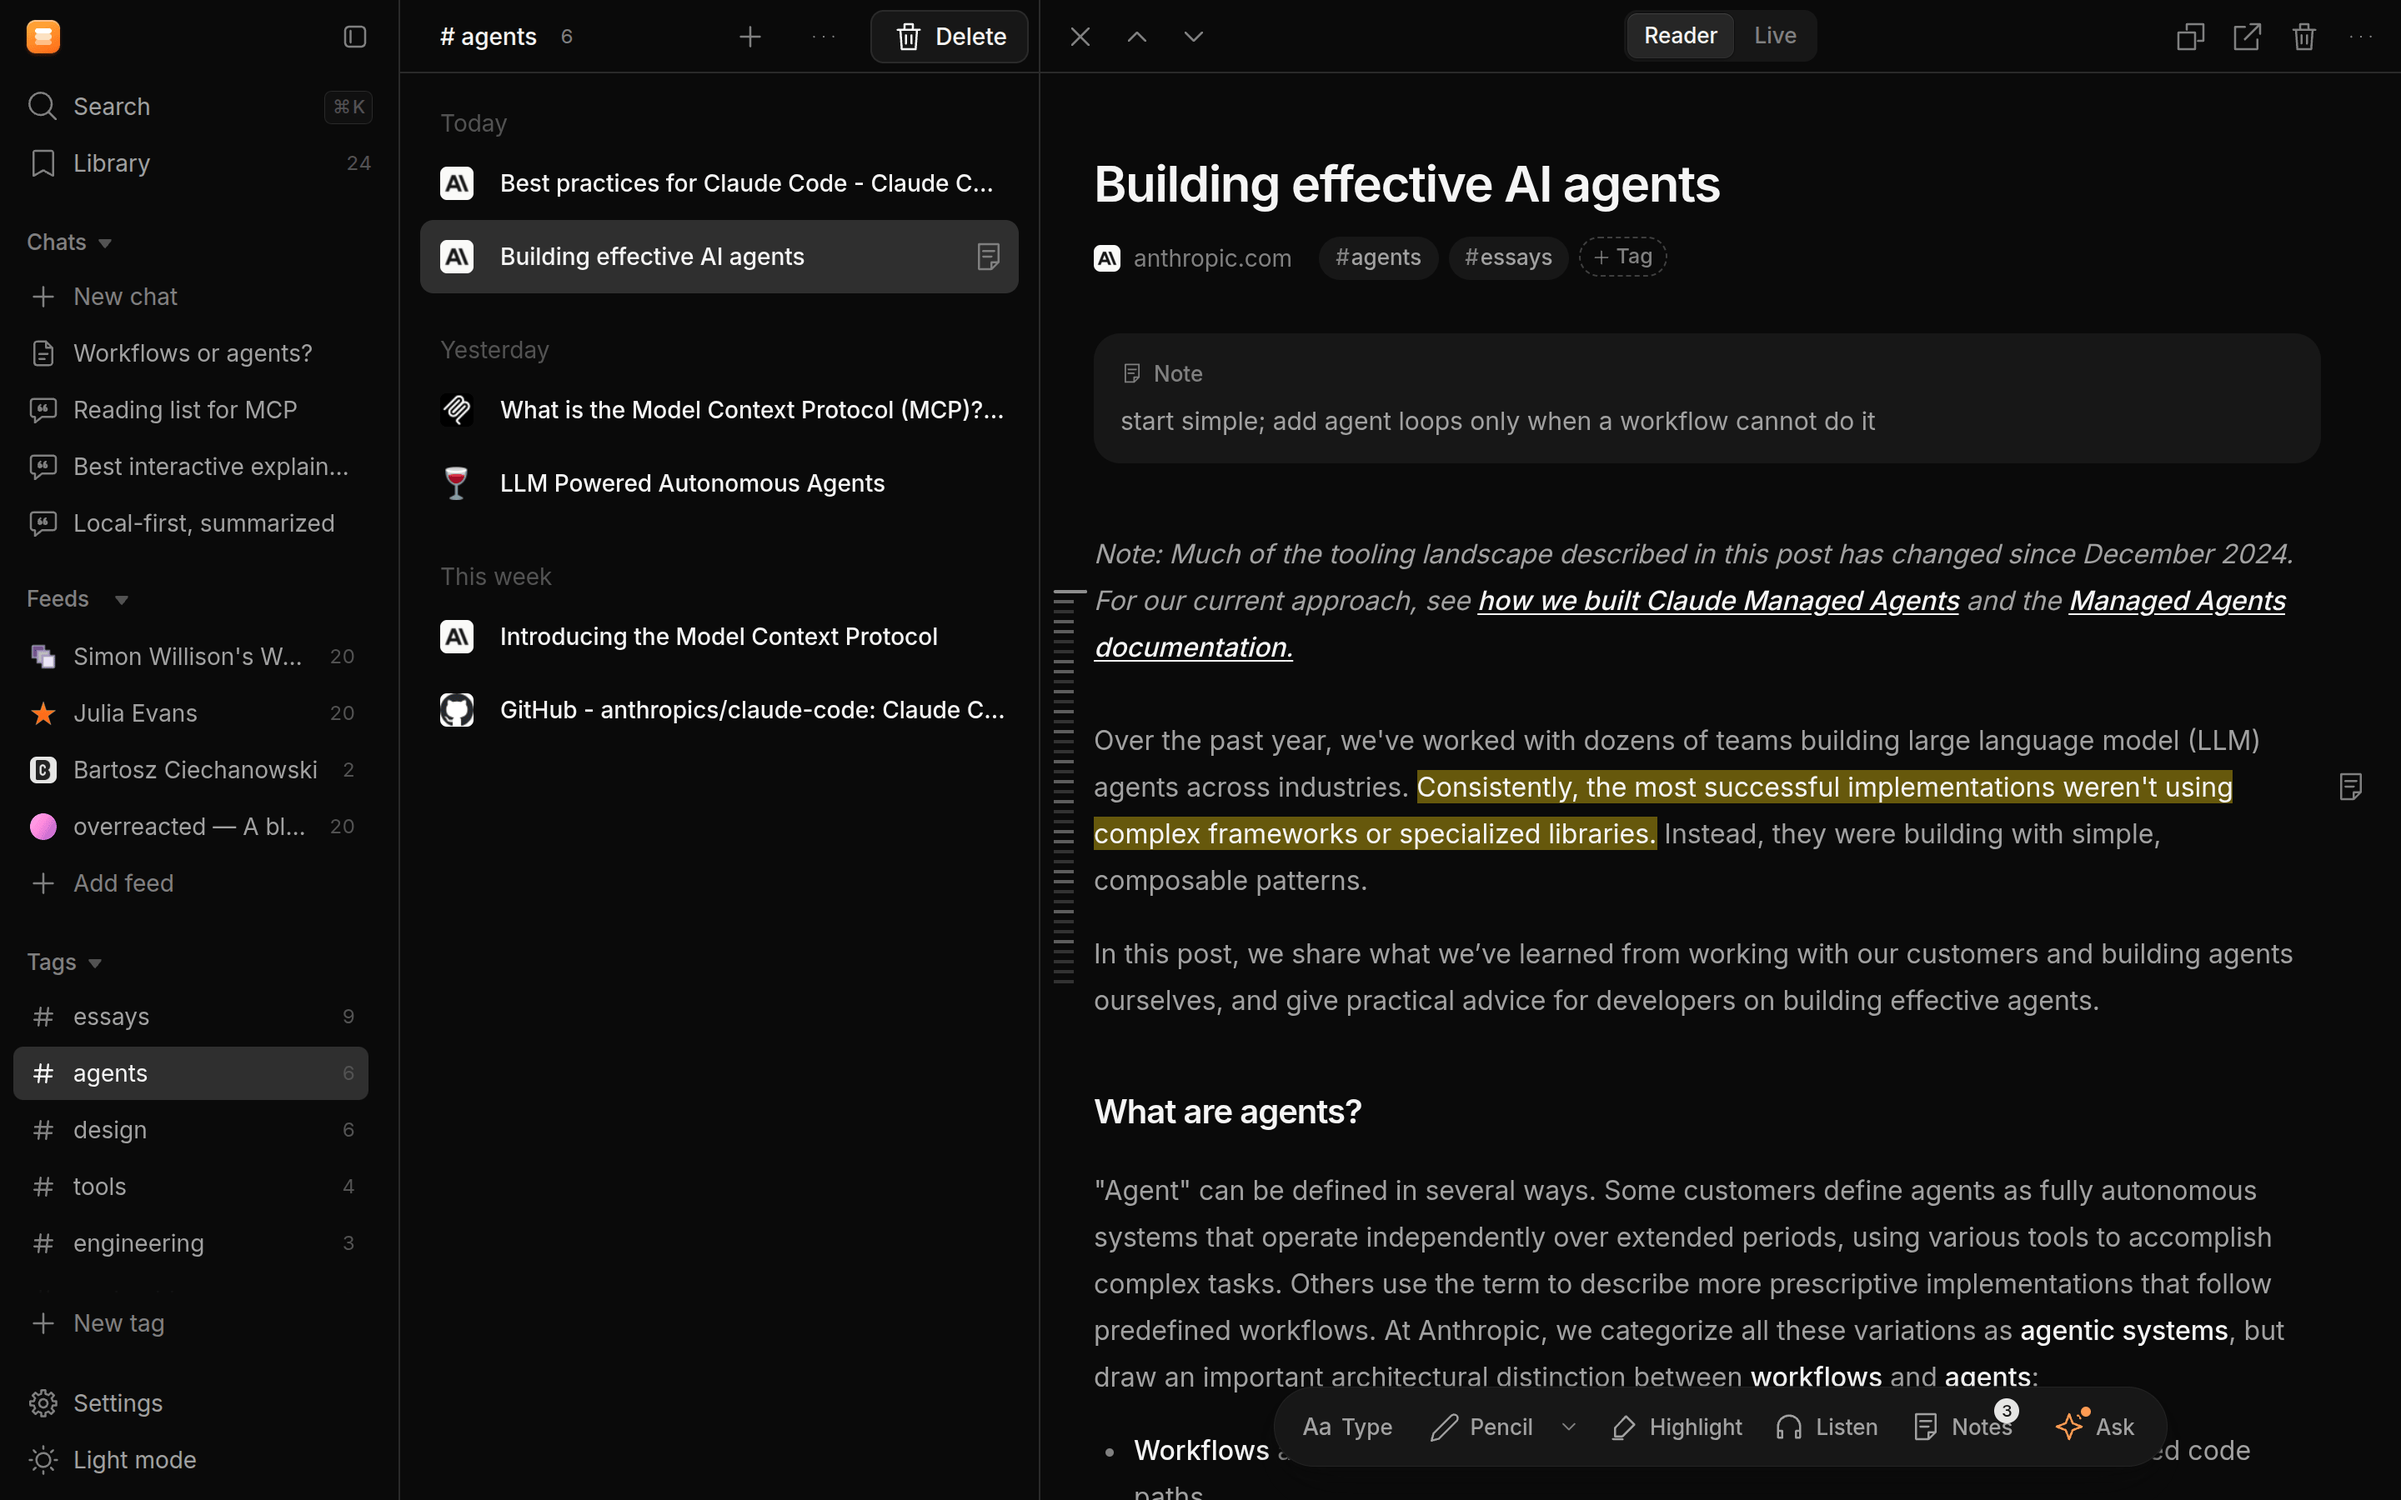
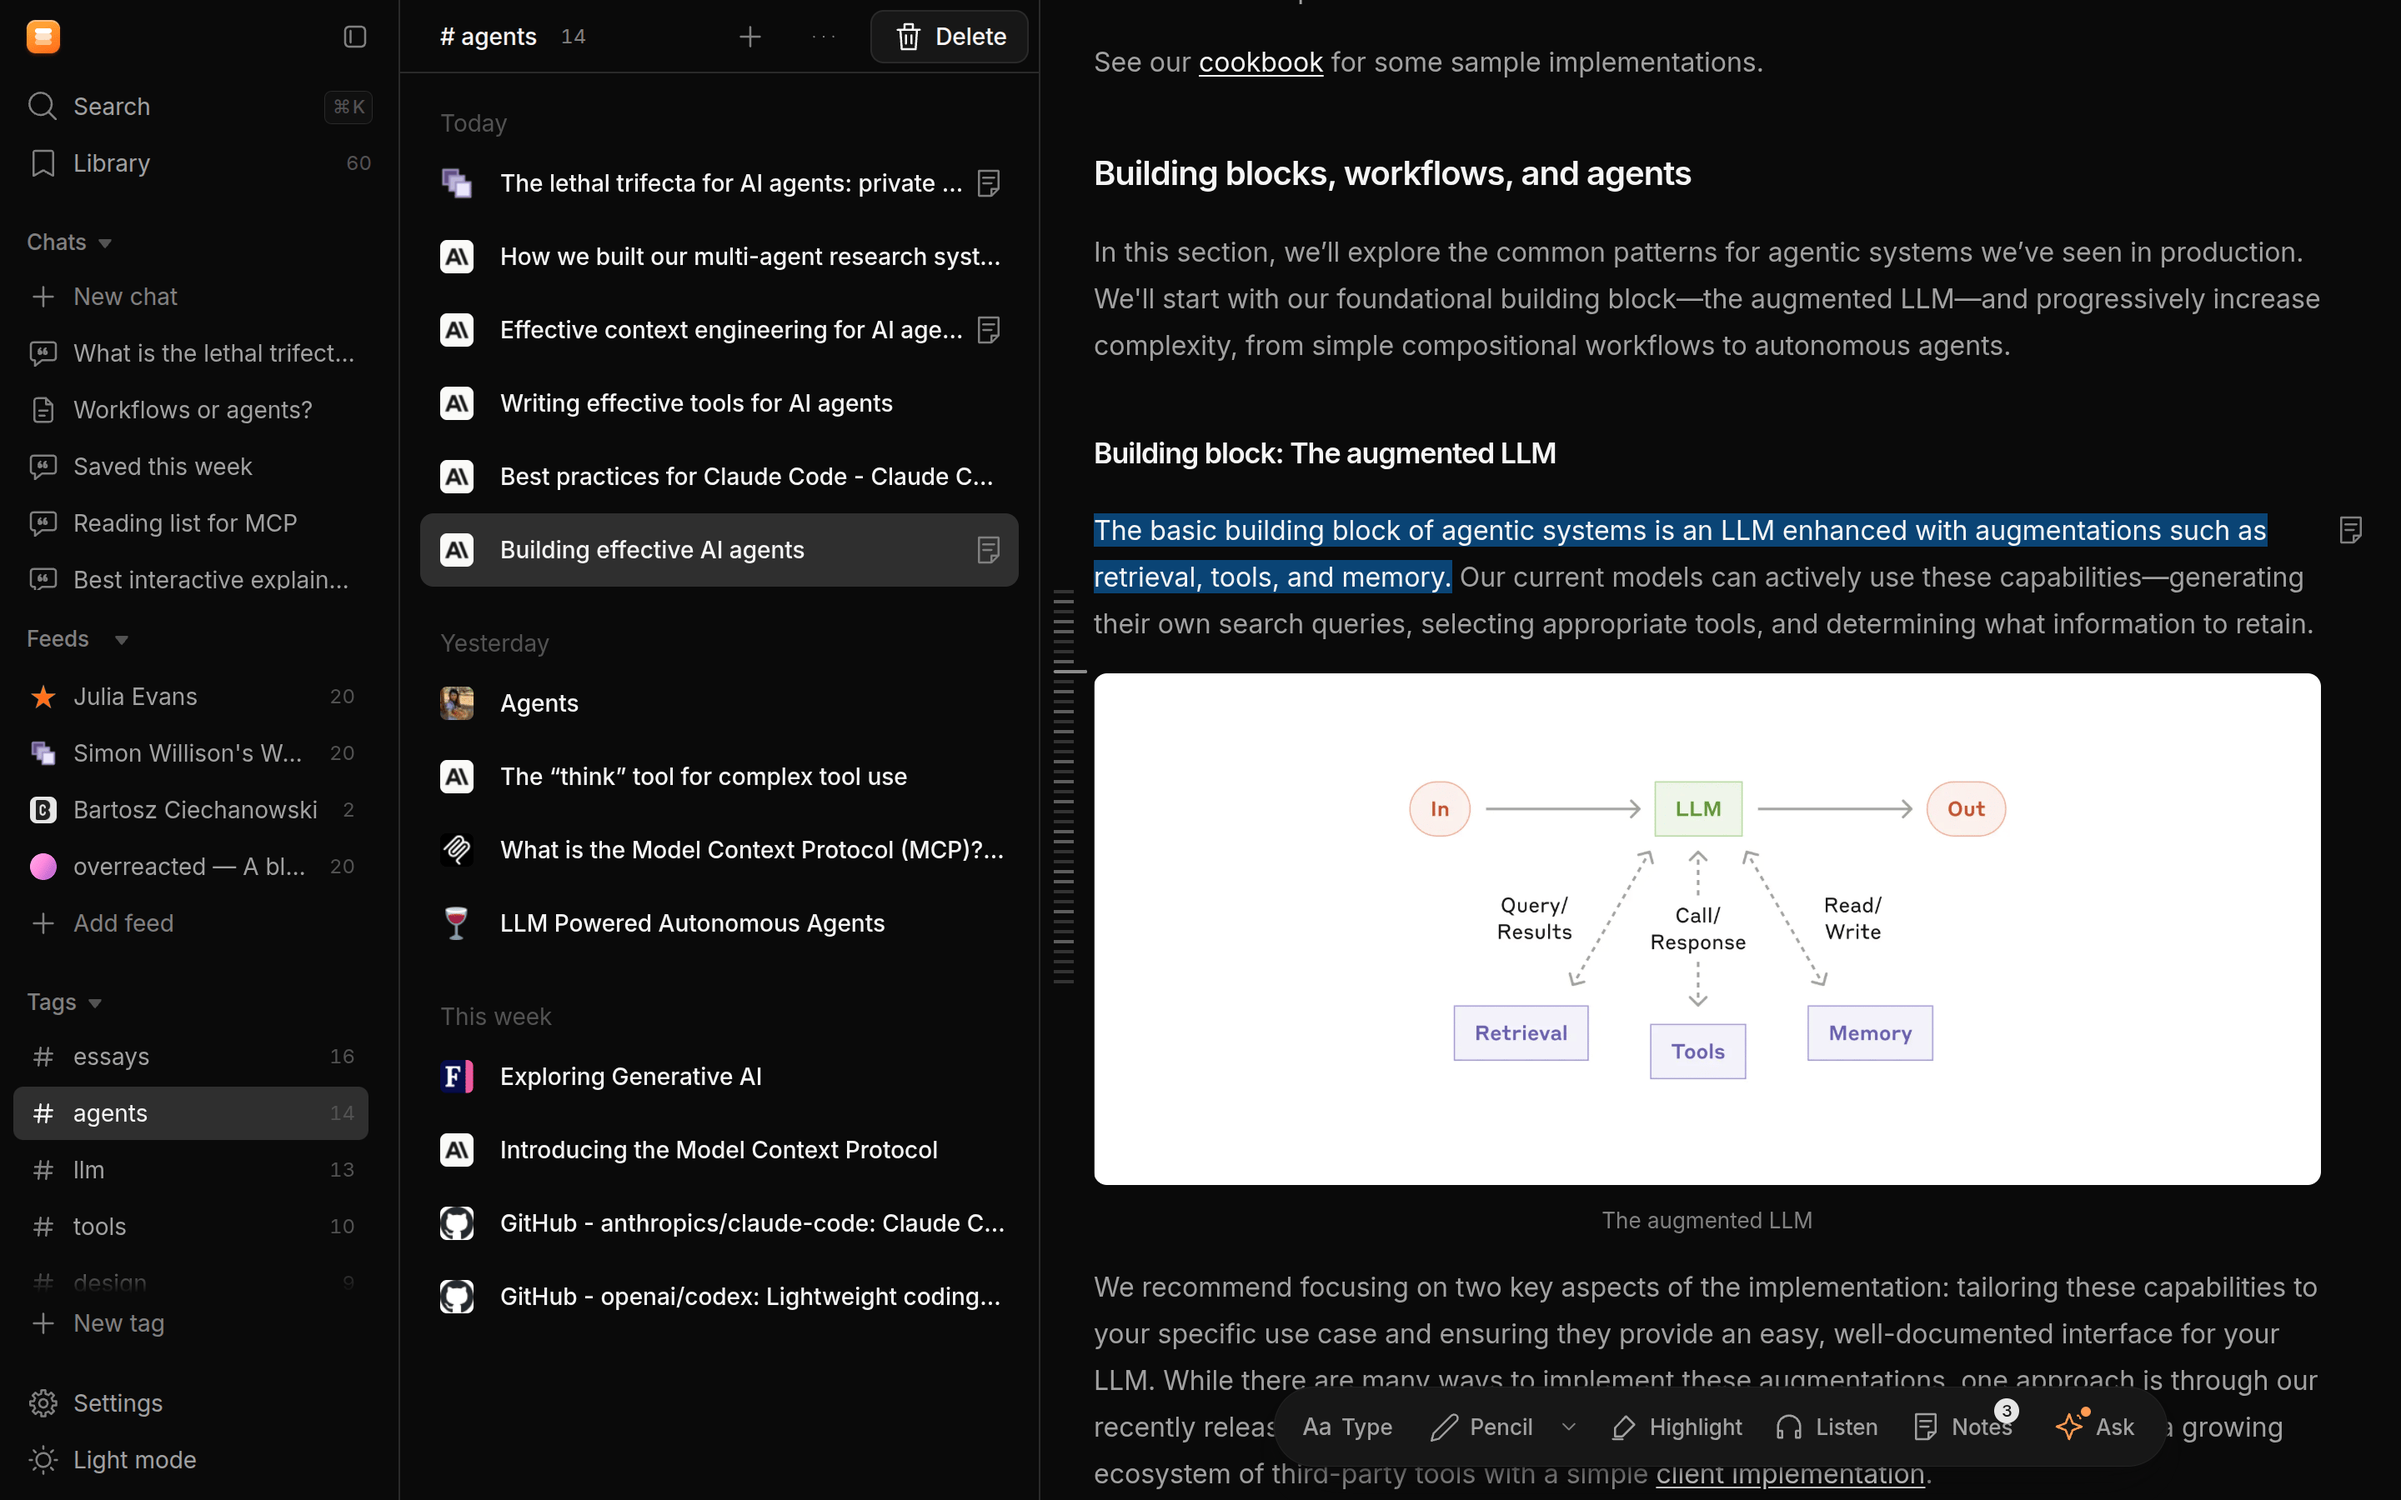
docs: fuller seeded library and richer README shots
Seed 60 live articles across 14 tags and six Librarian chats, so the
list, tags, and chats fill the screen. The shots now show a diagram in
the reader, the Ask chat open over an article, an image-heavy essay,
and an open feed post.

Capture waits for load instead of network idle, because YouTube embeds
never go idle.

diff --git a/scripts/screenshots/seed-data.ts b/scripts/screenshots/seed-data.ts
@@ -28,8 +28,11 @@ export interface SeedLink {
 /** The article the reader screenshots open. It also carries the highlights and a chat. */
 export const HERO_URL = 'https://www.anthropic.com/engineering/building-effective-agents';
 
-/** A second article the library screenshot opens in the reader. */
-export const SECOND_URL = 'https://www.inkandswitch.com/essay/local-first/';
+/** Articles the library screenshots open in the reader, keyed by manifest name. */
+export const SHOT_URLS = {
+  localFirst: 'https://www.inkandswitch.com/essay/local-first/',
+  transformer: 'https://jalammar.github.io/illustrated-transformer/',
+} as const;
 
 export const SEED_LINKS: SeedLink[] = [
   // ── Today ──────────────────────────────────────────────────────────────
@@ -74,7 +77,7 @@ export const SEED_LINKS: SeedLink[] = [
     bucket: 'yesterday',
   },
   {
-    url: SECOND_URL,
+    url: SHOT_URLS.localFirst,
     tags: ['local-first', 'essays'],
     note: 'the seven ideals; silo lives in #4 and #7',
     bucket: 'yesterday',
@@ -160,9 +163,195 @@ export const SEED_LINKS: SeedLink[] = [
     tags: ['essays'],
     bucket: 'earlier',
   },
+  // ── More reading, so every list and tag fills the screen ───────────────
   {
-    url: 'https://news.ycombinator.com/item?id=42575537',
+    url: 'https://www.anthropic.com/engineering/writing-tools-for-agents',
+    tags: ['agents', 'mcp'],
+    bucket: 'today',
+  },
+  {
+    url: 'https://www.anthropic.com/engineering/effective-context-engineering-for-ai-agents',
+    tags: ['agents', 'llm'],
+    note: 'context is a budget; spend it on what the next step needs',
+    bucket: 'today',
+  },
+  {
+    url: 'https://www.anthropic.com/engineering/multi-agent-research-system',
+    tags: ['agents', 'research'],
+    addedByClaude: true,
+    bucket: 'today',
+  },
+  {
+    url: SHOT_URLS.transformer,
+    tags: ['llm', 'explorables'],
+    bucket: 'today',
+  },
+  {
+    url: 'https://simonwillison.net/2025/Jun/16/the-lethal-trifecta/',
+    tags: ['agents', 'security'],
+    note: 'private data + untrusted content + a way out = exfiltration',
+    bucket: 'today',
+  },
+  {
+    url: 'https://www.anthropic.com/engineering/claude-think-tool',
+    tags: ['agents', 'llm'],
+    bucket: 'yesterday',
+  },
+  {
+    url: 'https://huyenchip.com/2025/01/07/agents.html',
+    tags: ['agents', 'essays'],
+    bucket: 'yesterday',
+  },
+  {
+    url: 'https://hamel.dev/blog/posts/evals/',
+    tags: ['evals', 'llm'],
+    bucket: 'yesterday',
+  },
+  {
+    url: 'https://github.com/microsoft/playwright-mcp',
+    tags: ['mcp', 'open-source', 'tools'],
+    addedByClaude: true,
+    bucket: 'yesterday',
+  },
+  {
+    url: 'https://www.anthropic.com/research/tracing-thoughts-language-model',
+    tags: ['llm', 'research'],
+    bucket: 'yesterday',
+  },
+  {
+    url: 'https://ciechanow.ski/bicycle/',
+    tags: ['explorables', 'design'],
+    bucket: 'yesterday',
+  },
+  {
+    url: 'https://eugeneyan.com/writing/llm-patterns/',
+    tags: ['llm', 'evals'],
+    bucket: 'this_week',
+  },
+  {
+    url: 'https://github.com/openai/codex',
+    tags: ['agents', 'open-source', 'tools'],
+    bucket: 'this_week',
+  },
+  {
+    url: 'https://lilianweng.github.io/posts/2024-07-07-hallucination/',
+    tags: ['llm', 'research'],
+    bucket: 'this_week',
+  },
+  {
+    url: 'https://modelcontextprotocol.io/specification/2025-06-18',
+    tags: ['mcp'],
+    bucket: 'this_week',
+  },
+  {
+    url: 'https://www.figma.com/blog/introducing-figma-mcp-server/',
+    tags: ['mcp', 'design'],
+    bucket: 'this_week',
+  },
+  {
+    url: 'https://maggieappleton.com/ai-dark-forest',
+    tags: ['essays', 'llm'],
+    bucket: 'this_week',
+  },
+  {
+    url: 'https://www.joshwcomeau.com/react/server-components/',
+    tags: ['frontend', 'explorables'],
+    bucket: 'this_week',
+  },
+  {
+    url: 'https://ciechanow.ski/airfoil/',
+    tags: ['explorables'],
+    bucket: 'this_week',
+  },
+  {
+    url: 'https://martinfowler.com/articles/exploring-gen-ai.html',
+    tags: ['agents', 'engineering'],
+    bucket: 'this_week',
+  },
+  {
+    url: 'https://karpathy.github.io/2015/05/21/rnn-effectiveness/',
+    tags: ['llm', 'research'],
+    bucket: 'earlier',
+  },
+  {
+    url: 'https://paulgraham.com/ds.html',
+    tags: ['essays'],
+    bucket: 'earlier',
+  },
+  {
+    url: 'https://stripe.com/blog/canonical-log-lines',
     tags: ['engineering'],
+    bucket: 'earlier',
+  },
+  {
+    url: 'https://brandur.org/idempotency-keys',
+    tags: ['engineering'],
+    note: 'store the key and the response in one transaction',
+    bucket: 'earlier',
+  },
+  {
+    url: 'https://github.com/ollama/ollama',
+    tags: ['llm', 'open-source', 'tools'],
+    bucket: 'earlier',
+  },
+  {
+    url: 'https://github.com/tldraw/tldraw',
+    tags: ['open-source', 'design'],
+    bucket: 'earlier',
+  },
+  {
+    url: 'https://react.dev/blog/2024/12/05/react-19',
+    tags: ['frontend'],
+    bucket: 'earlier',
+  },
+  {
+    url: 'https://tailwindcss.com/blog/tailwindcss-v4',
+    tags: ['frontend', 'tools'],
+    bucket: 'earlier',
+  },
+  {
+    url: 'https://overreacted.io/a-complete-guide-to-useeffect/',
+    tags: ['frontend', 'essays'],
+    bucket: 'earlier',
+  },
+  {
+    url: 'https://web.dev/articles/vitals',
+    tags: ['frontend', 'engineering'],
+    bucket: 'earlier',
+  },
+  {
+    url: 'https://www.inkandswitch.com/upwelling/',
+    tags: ['local-first', 'research'],
+    bucket: 'earlier',
+  },
+  {
+    url: 'https://danluu.com/look-stupid/',
+    tags: ['essays'],
+    bucket: 'earlier',
+  },
+  {
+    url: 'https://bun.sh/blog/bun-v1.0',
+    tags: ['tools', 'open-source'],
+    bucket: 'earlier',
+  },
+  {
+    url: 'https://sre.google/sre-book/embracing-risk/',
+    tags: ['engineering'],
+    bucket: 'earlier',
+  },
+  {
+    url: 'https://astral.sh/blog/uv',
+    tags: ['tools', 'open-source'],
+    bucket: 'earlier',
+  },
+  {
+    url: 'https://antirez.com/news/145',
+    tags: ['essays', 'engineering'],
+    bucket: 'earlier',
+  },
+  {
+    url: 'https://lethain.com/staff-engineer/',
+    tags: ['engineering', 'essays'],
     bucket: 'earlier',
   },
 ];
@@ -198,8 +387,8 @@ export const HERO_HIGHLIGHTS: SeedHighlight[] = [
 
 /** RSS / Atom feeds, subscribed through the real `POST /api/feeds` endpoint. */
 export const SEED_FEEDS: string[] = [
-  'https://simonwillison.net/atom/everything/',
   'https://jvns.ca/atom.xml',
+  'https://simonwillison.net/atom/everything/',
   'https://ciechanow.ski/atom.xml',
   'https://overreacted.io/rss.xml',
 ];
@@ -218,6 +407,28 @@ export interface SeedChat {
 }
 
 export const SEED_CHATS: SeedChat[] = [
+  {
+    title: 'What is the lethal trifecta?',
+    ageHours: 0.5,
+    messages: [
+      { role: 'user', text: 'Explain the lethal trifecta from my saved Simon Willison post.' },
+      {
+        role: 'assistant',
+        text: 'An agent is at risk when it has all three: access to **private data**, exposure to **untrusted content**, and a way to **send data out**. A prompt injection in the untrusted content can then make the agent leak your data. Remove any one of the three and the attack fails.',
+      },
+    ],
+  },
+  {
+    title: 'Saved this week',
+    ageHours: 3,
+    messages: [
+      { role: 'user', text: 'What did I save this week?' },
+      {
+        role: 'assistant',
+        text: "Most of this week's saves are about **agents** and **LLM evals**: Hamel Husain on evals, Eugene Yan on LLM patterns, and the Codex repository. You also saved two explorables: Airfoil and the guide to React Server Components.",
+      },
+    ],
+  },
   {
     title: 'Workflows or agents?',
     hero: true,

diff --git a/scripts/screenshots/showcase.ts b/scripts/screenshots/showcase.ts
@@ -11,7 +11,7 @@
 import { randomUUID } from 'node:crypto';
 import { writeFileSync } from 'node:fs';
 import type { Pool } from 'pg';
-import { HERO_HIGHLIGHTS, HERO_URL, SECOND_URL, SEED_CHATS, SEED_FEEDS } from './seed-data.js';
+import { HERO_HIGHLIGHTS, HERO_URL, SEED_CHATS, SEED_FEEDS, SHOT_URLS } from './seed-data.js';
 
 export interface ShowcaseContext {
   pool: Pool;
@@ -21,7 +21,7 @@ export interface ShowcaseContext {
 
 export interface Manifest {
   heroLinkId: string | null;
-  secondLinkId: string | null;
+  shotLinkIds: Record<keyof typeof SHOT_URLS, string | null>;
   heroChatId: string | null;
   feedId: string | null;
 }
@@ -50,6 +50,13 @@ async function linkIdFor(pool: Pool, url: string): Promise<string | null> {
     [url],
   );
   return rows[0]?.id ?? null;
+}
+
+async function shotLinkIds(pool: Pool): Promise<Manifest['shotLinkIds']> {
+  const entries = await Promise.all(
+    Object.entries(SHOT_URLS).map(async ([name, url]) => [name, await linkIdFor(pool, url)]),
+  );
+  return Object.fromEntries(entries) as Manifest['shotLinkIds'];
 }
 
 async function seedHighlights(ctx: ShowcaseContext, linkId: string): Promise<void> {
@@ -132,7 +139,7 @@ export async function seedShowcase(ctx: ShowcaseContext, manifestPath: string): 
 
   const manifest: Manifest = {
     heroLinkId: linkId,
-    secondLinkId: await linkIdFor(ctx.pool, SECOND_URL),
+    shotLinkIds: await shotLinkIds(ctx.pool),
     heroChatId,
     feedId,
   };

diff --git a/README.md b/README.md
@@ -17,7 +17,7 @@ features, such as the Librarian chat or short titles for saved X posts, with you
 OpenAI, Fireworks, or Vercel AI Gateway key. They are off by default, and silo works fully without
 them.
 
-<img src="docs/design/app/shots/01-reader-dark.png" alt="silo's reader: an article with a note and a highlight, beside the agents tag list" width="880">
+<img src="docs/design/app/shots/01-reader-dark.png" alt="silo's reader: a highlighted passage above a diagram, beside the agents tag list" width="880">
 
 ```sh
 brew install amitray007/tap/silo
@@ -60,15 +60,15 @@ The web UI (`@silo/web`, React + Vite in the "Oat" design system), seeded with r
 
 <table>
   <tr>
-    <td width="50%"><img src="docs/design/app/shots/02-reader-light.png" alt="Reader in light theme with a blue highlight beside a diagram"><br><sub><b>Reader</b>: highlights, notes, and the reading tools dock.</sub></td>
-    <td width="50%"><img src="docs/design/app/shots/05-librarian.png" alt="Librarian chat answering a question about a saved article"><br><sub><b>Librarian</b>: ask about an article or the whole library.</sub></td>
+    <td width="50%"><img src="docs/design/app/shots/02-reader-ask-light.png" alt="The Librarian chat open over an article in the reader"><br><sub><b>Ask</b>: the Librarian answers about the article you are reading.</sub></td>
+    <td width="50%"><img src="docs/design/app/shots/05-librarian.png" alt="Librarian page with recent chats and one conversation"><br><sub><b>Librarian</b>: every chat, about one article or the whole library.</sub></td>
   </tr>
   <tr>
-    <td><img src="docs/design/app/shots/03-library-light.png" alt="Library list grouped by day"><br><sub><b>Library</b>: grouped by day, with notes marked.</sub></td>
+    <td><img src="docs/design/app/shots/03-library-light.png" alt="Library list beside The Illustrated Transformer with its diagrams"><br><sub><b>Library</b>: grouped by day, images and embeds kept in the reader.</sub></td>
     <td><img src="docs/design/app/shots/04-library-dark.png" alt="Library in dark theme with an essay open in the reader"><br><sub><b>Library</b> in dark, an essay open beside the list.</sub></td>
   </tr>
   <tr>
-    <td><img src="docs/design/app/shots/06-feed.png" alt="A subscribed feed with its recent posts"><br><sub><b>Feeds</b>: RSS and Atom posts, saved to the library in one click.</sub></td>
+    <td><img src="docs/design/app/shots/06-feed.png" alt="A Julia Evans feed post open in the reader"><br><sub><b>Feeds</b>: read RSS and Atom posts, and save the good ones.</sub></td>
     <td><img src="docs/design/app/shots/07-command-palette.png" alt="Command palette searching for agents"><br><sub><b>Command palette</b> (⌘K): full-text search across everything.</sub></td>
   </tr>
 </table>
